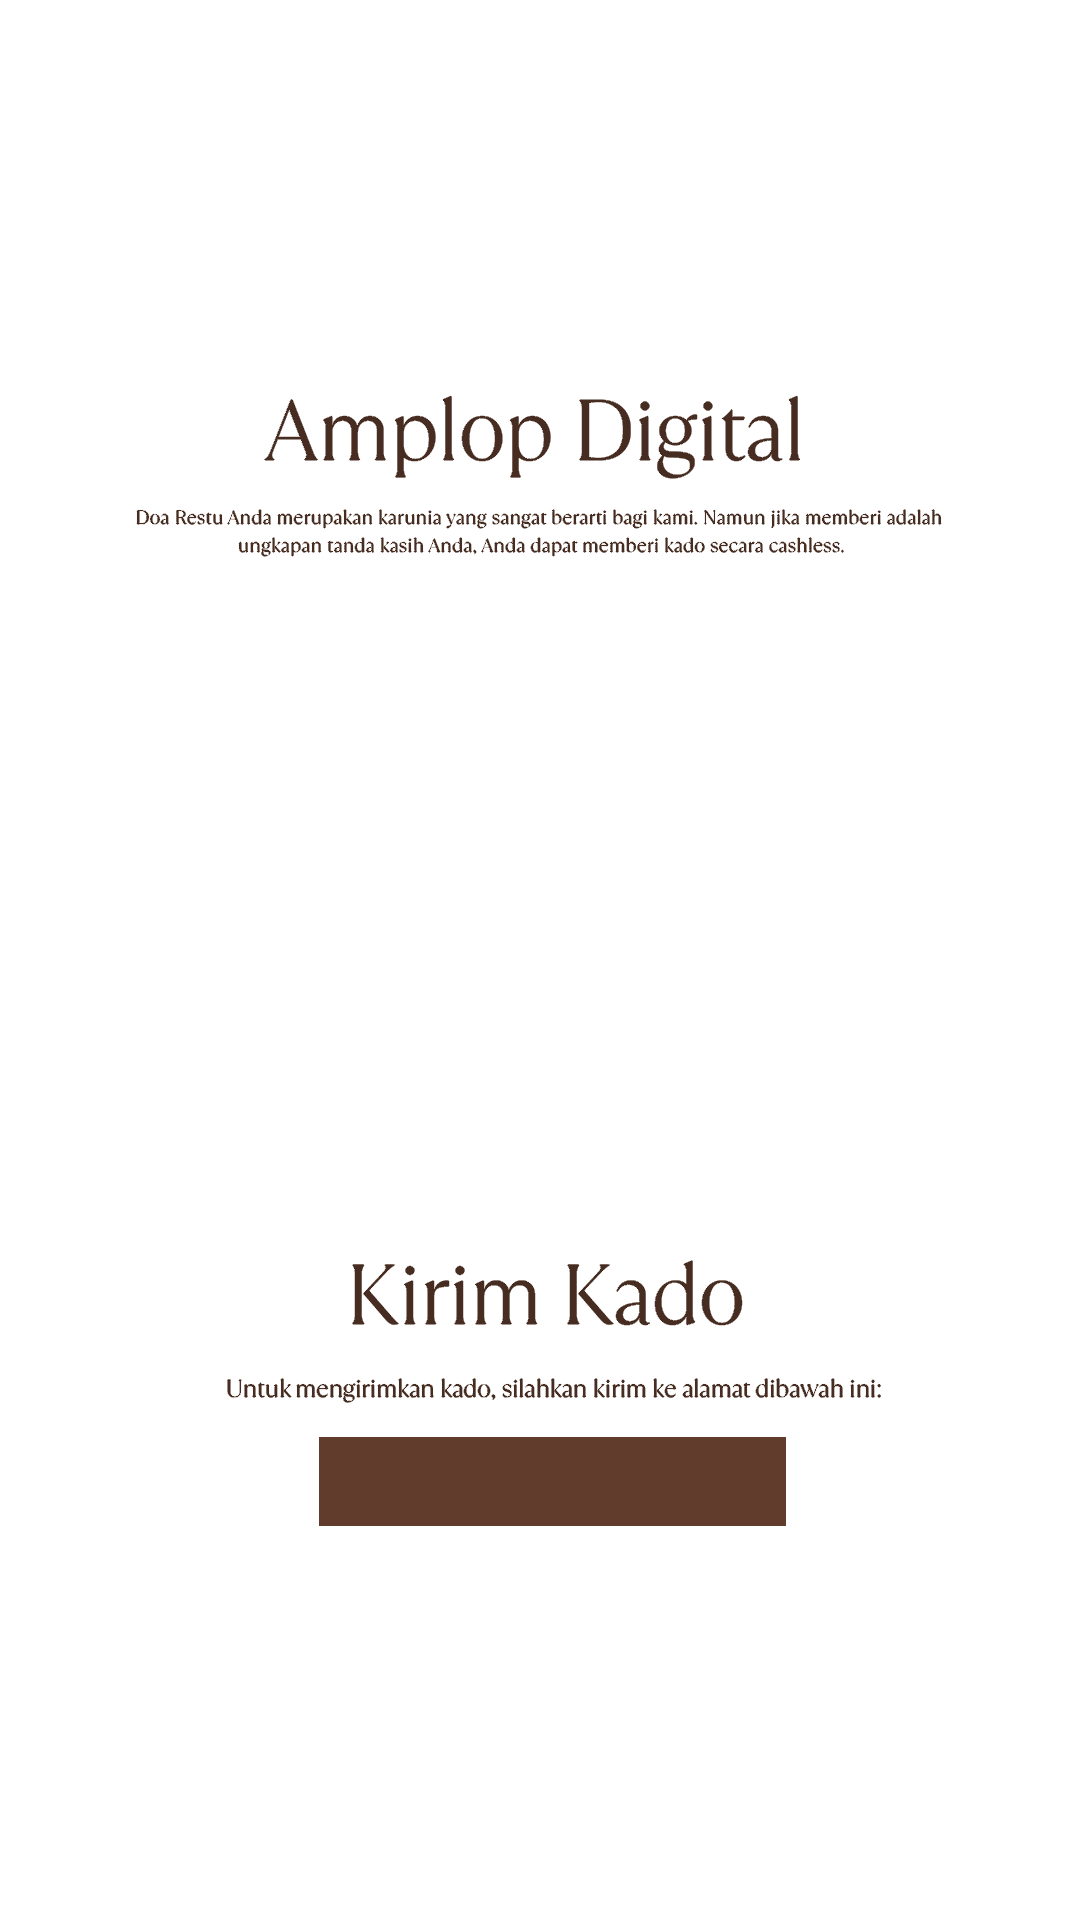
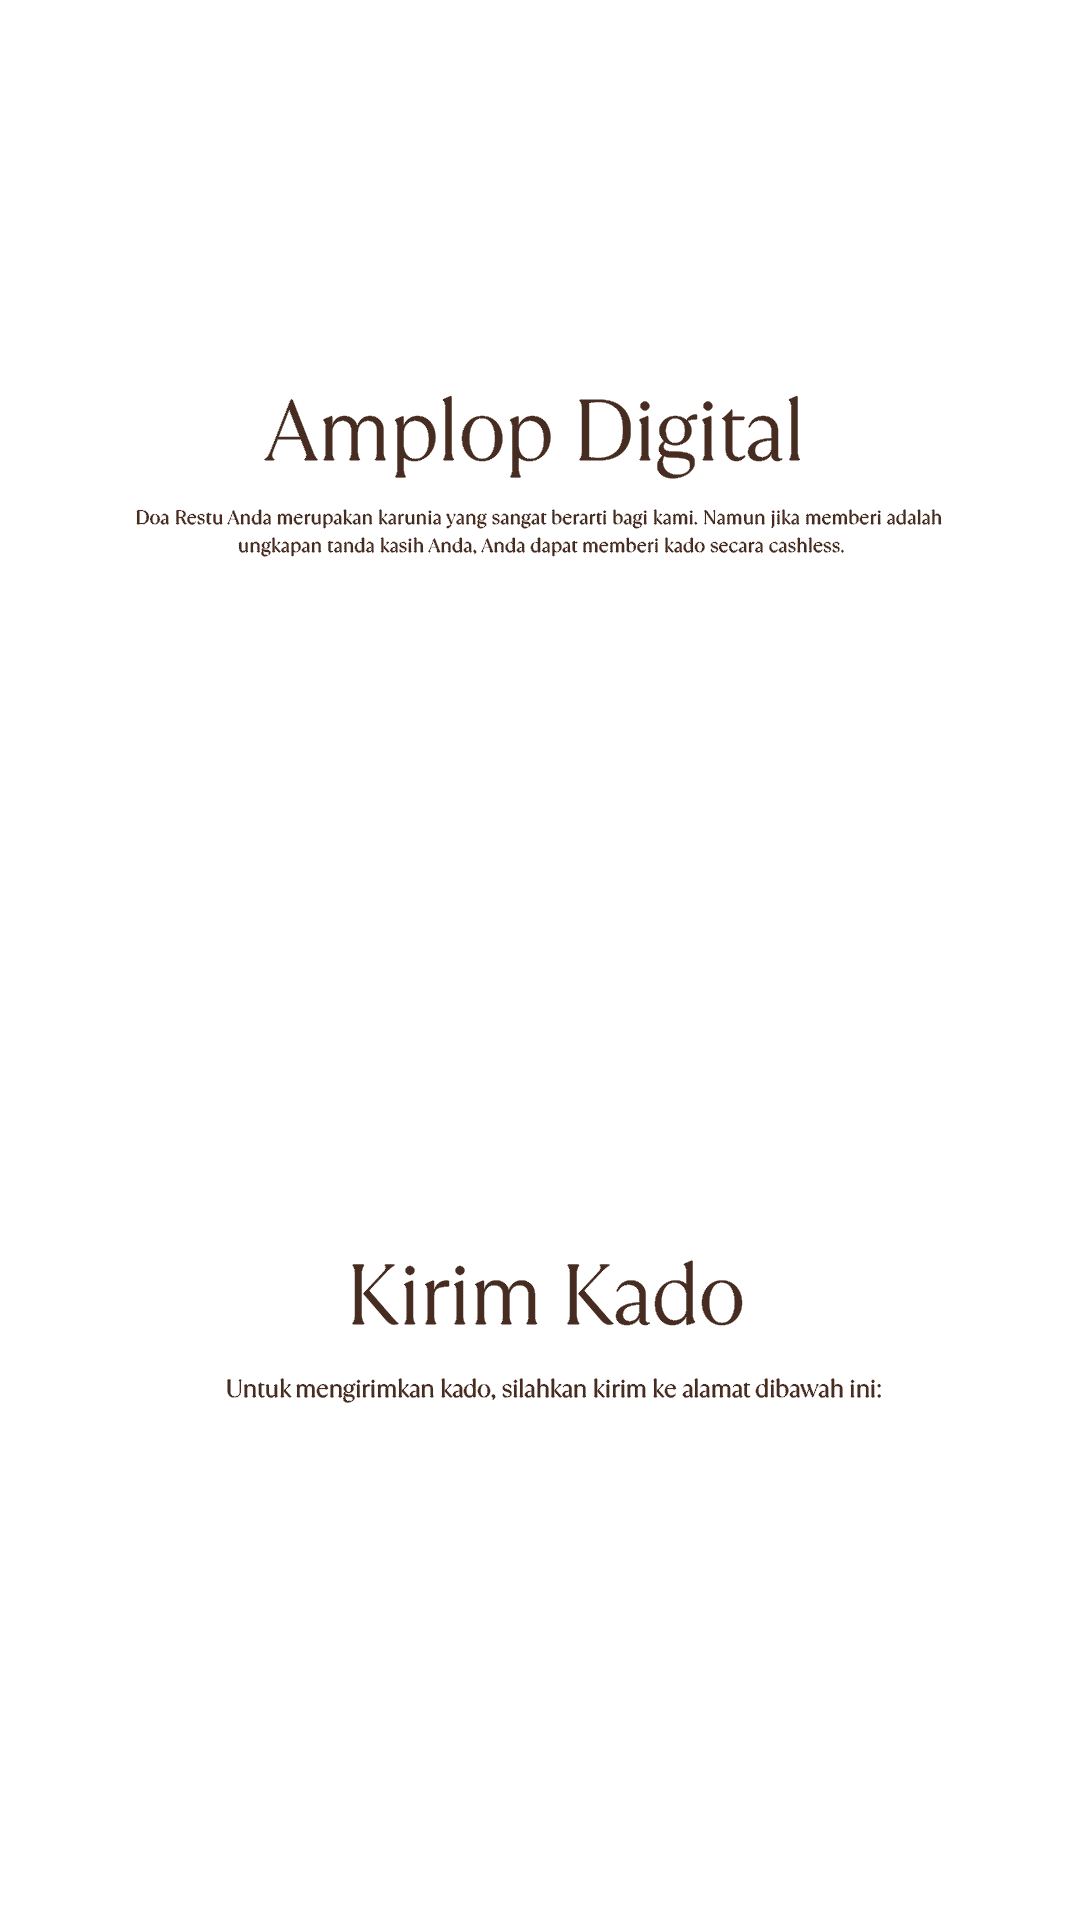
feat: ganti teks lokasi dengan image button dan sesuaikan posisi responsif

Changed region(s): [[0.275, 0.75, 0.7333, 0.8125]]

diff --git a/src/components/AmplopDigital.jsx b/src/components/AmplopDigital.jsx
@@ -1,7 +1,34 @@
-import { useState } from 'react'
+import { useState, useEffect, useRef } from 'react'
 
 export default function AmplopDigital() {
   const [copied, setCopied] = useState(false)
+  const mapsLinkRef = useRef(null)
+
+  useEffect(() => {
+    const el = mapsLinkRef.current
+    if (!el) return
+
+    const updatePosition = () => {
+      const vh = window.visualViewport?.height || window.innerHeight
+      el.style.bottom = `${vh * 0.22}px`
+    }
+
+    updatePosition()
+
+    if (window.visualViewport) {
+      window.visualViewport.addEventListener('resize', updatePosition)
+      window.visualViewport.addEventListener('scroll', updatePosition)
+    }
+    window.addEventListener('resize', updatePosition)
+
+    return () => {
+      if (window.visualViewport) {
+        window.visualViewport.removeEventListener('resize', updatePosition)
+        window.visualViewport.removeEventListener('scroll', updatePosition)
+      }
+      window.removeEventListener('resize', updatePosition)
+    }
+  }, [])
 
   const handleCopy = () => {
     navigator.clipboard.writeText('8040179314').then(() => {
@@ -29,9 +56,9 @@ export default function AmplopDigital() {
           {copied ? 'Tersalin!' : 'Salin Nomor Rekening'}
         </button>
       </div>
-      <div className="amplop-maps-link">
+      <div className="amplop-maps-link" ref={mapsLinkRef}>
         <a href="https://maps.app.goo.gl/N7Ct31qXmGHeKG4p6" target="_blank" rel="noopener noreferrer">
-          Lokasi (Google Maps)
+          <img src="/konten4/button-lokasi.webp" alt="Lokasi Google Maps" className="amplop-maps-btn" />
         </a>
       </div>
     </div>

diff --git a/src/App.css b/src/App.css
@@ -490,7 +490,7 @@ body {
 
 .amplop-maps-link {
   position: absolute;
-  bottom: calc(21% + env(safe-area-inset-bottom));
+  bottom: 150px;
   left: 0;
   right: 0;
   text-align: center;
@@ -505,6 +505,17 @@ body {
   text-decoration: underline;
   letter-spacing: 1px;
   -webkit-tap-highlight-color: transparent;
+}
+
+.amplop-maps-btn {
+  width: 180px;
+  height: auto;
+  cursor: pointer;
+  transition: transform 0.2s ease;
+}
+
+.amplop-maps-btn:hover {
+  transform: scale(1.05);
 }
 
 /* ===== PAGE MAPS LINK (generic) ===== */
